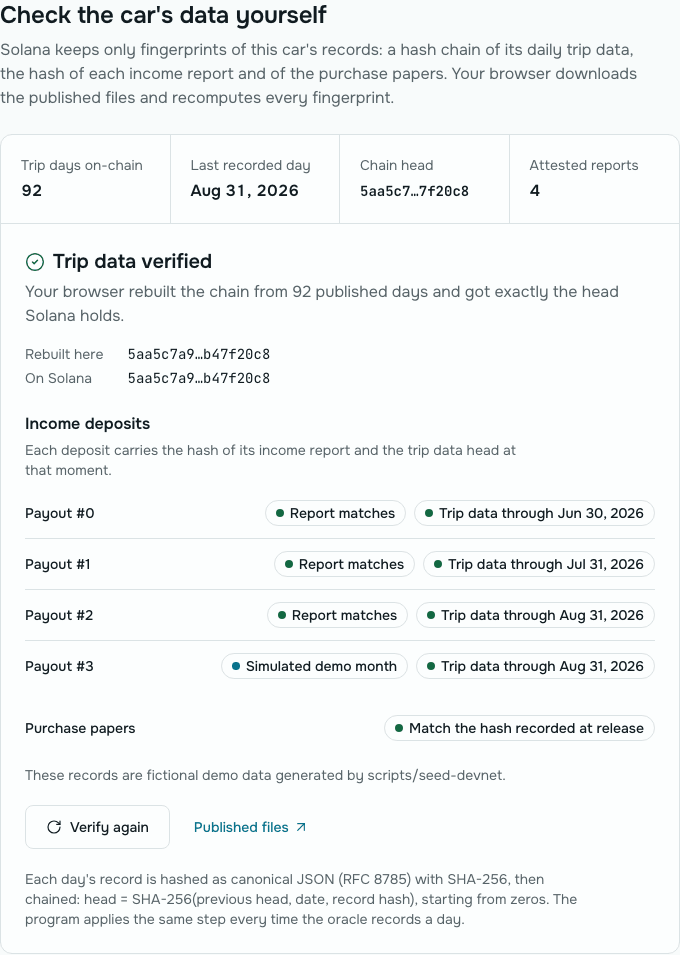
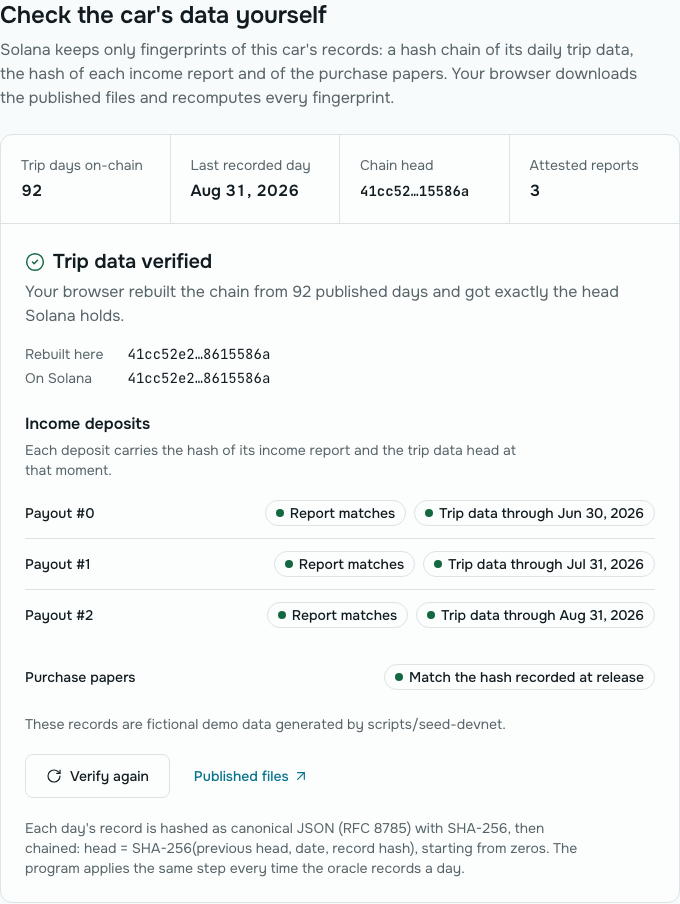
Use a single-run screenshot of the verify panel

diff --git a/README.md b/README.md
@@ -360,7 +360,7 @@ The v2 app on a local validator seeded by `scripts/seed-devnet` at tiny scale, i
 
 | Check the car's data yourself | Proof of solvency |
 |---------|----------|
-| ![The verify panel after a check in the browser: 92 trip days rebuilt to the head Solana holds, three income reports matching their on-chain hashes, one simulated demo month labelled, and the purchase papers matching](assets/screenshots/03-verify.png) | ![Proof of solvency: all six cars pass every check, with the income vaults, what holders are owed and the raise escrows](assets/screenshots/04-solvency.png) |
+| ![The verify panel after a check in the browser: 92 trip days rebuilt to the head Solana holds, three income reports matching their on-chain hashes, and the purchase papers matching](assets/screenshots/03-verify.png) | ![Proof of solvency: all six cars pass every check, with the income vaults, what holders are owed and the raise escrows](assets/screenshots/04-solvency.png) |
 
 | Portfolio | Judge demo |
 |---------|----------|
